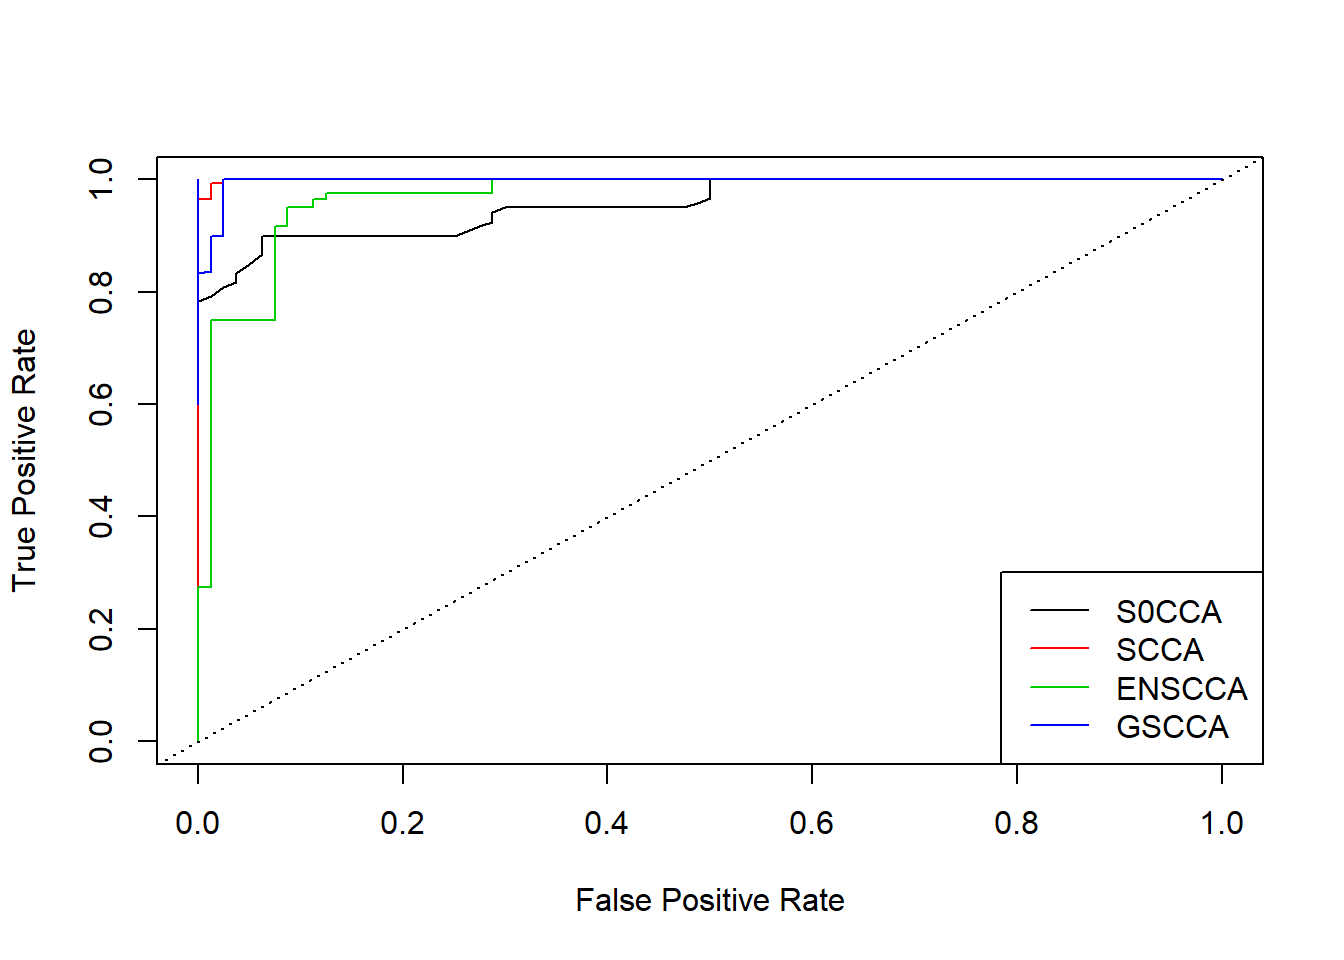
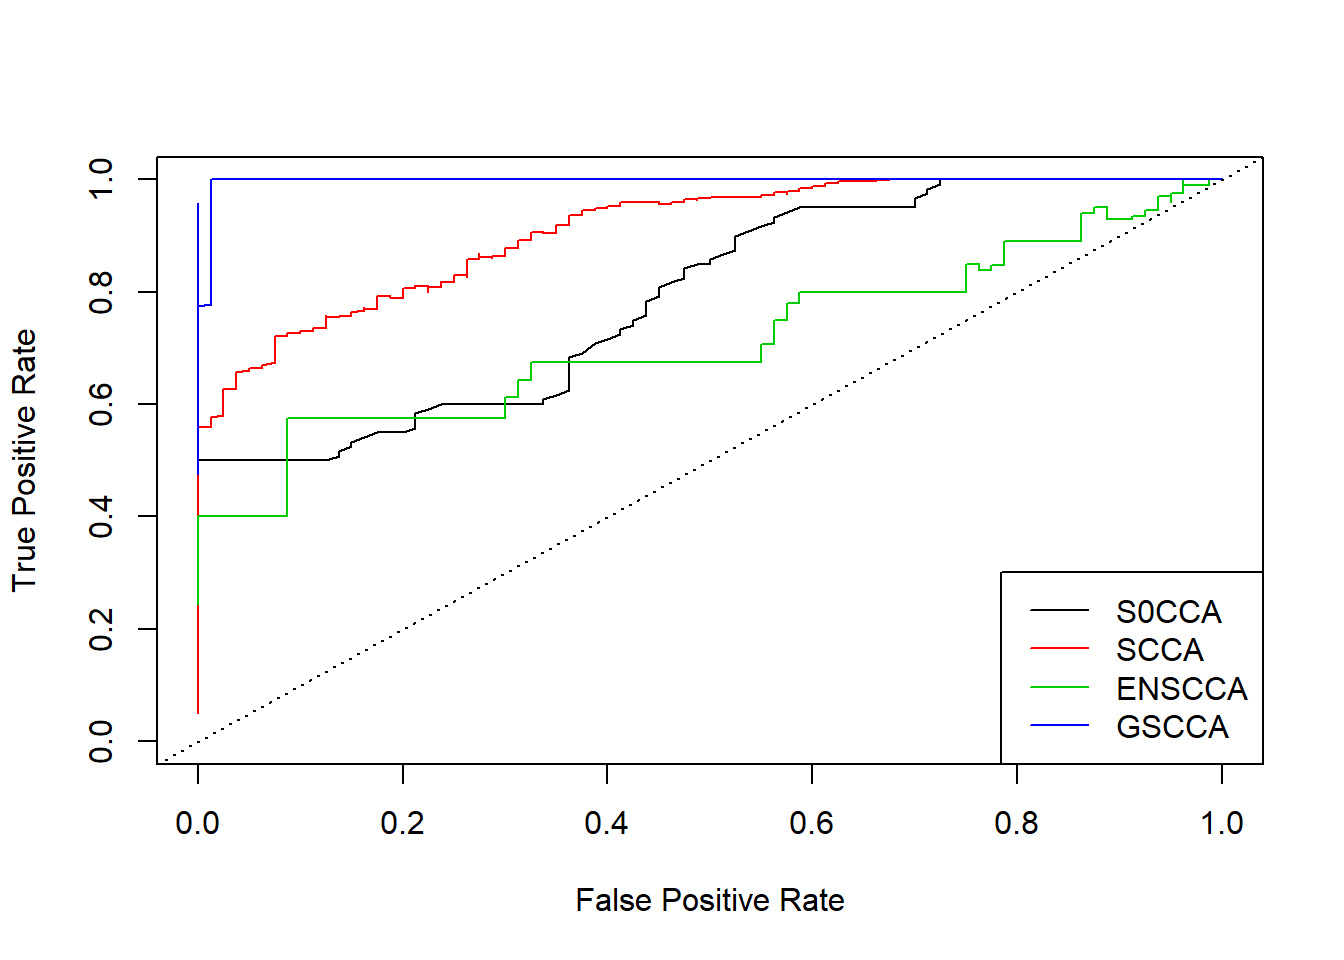
Build site.

diff --git a/docs/roc.html b/docs/roc.html
@@ -323,7 +323,7 @@ shared across the workflowr files. -->
 <p><strong>Last updated:</strong> 2017-12-30</p>
 <!-- Insert the code version (Git commit SHA1) if Git repository exists and R
  package git2r is installed -->
-<p><strong>Code version:</strong> 6c5ef11</p>
+<p><strong>Code version:</strong> c131f6a</p>
 <!-- Add your analysis here -->
 <div id="normal-latent-variable-model" class="section level1">
 <h1>Normal Latent variable model</h1>
@@ -376,8 +376,10 @@ legend(&#39;bottomright&#39;,legend = c(&#39;S0CCA&#39;,&#39;SCCA&#39;,&#39;ENSC
 <h2>Model 4</h2>
 <p>Situation 1</p>
 <pre class="r"><code>#u=c(rep(1,10),rep(-1,10),rep(0,80))
-u=c(rep(c(1,0.5),10),rep(0,80))
-v=u
+#u=c(rep(c(1,0.5),10),rep(0,80))
+#v=u
+u=c(rep(c(1,0.2),10),rep(0,80))
+v=c(rep(c(1,1,0.2,0.2,0.2),4),rep(0,80))
 rocs=roc.simu(1,u,v,sigma_x = sigma_x,sigma_y = sigma_y,edges = edges,data.type = &quot;normal_oth&quot;)
 
 tt=cbind(rocs$mats0[,2],rocs$mats0[,1])
